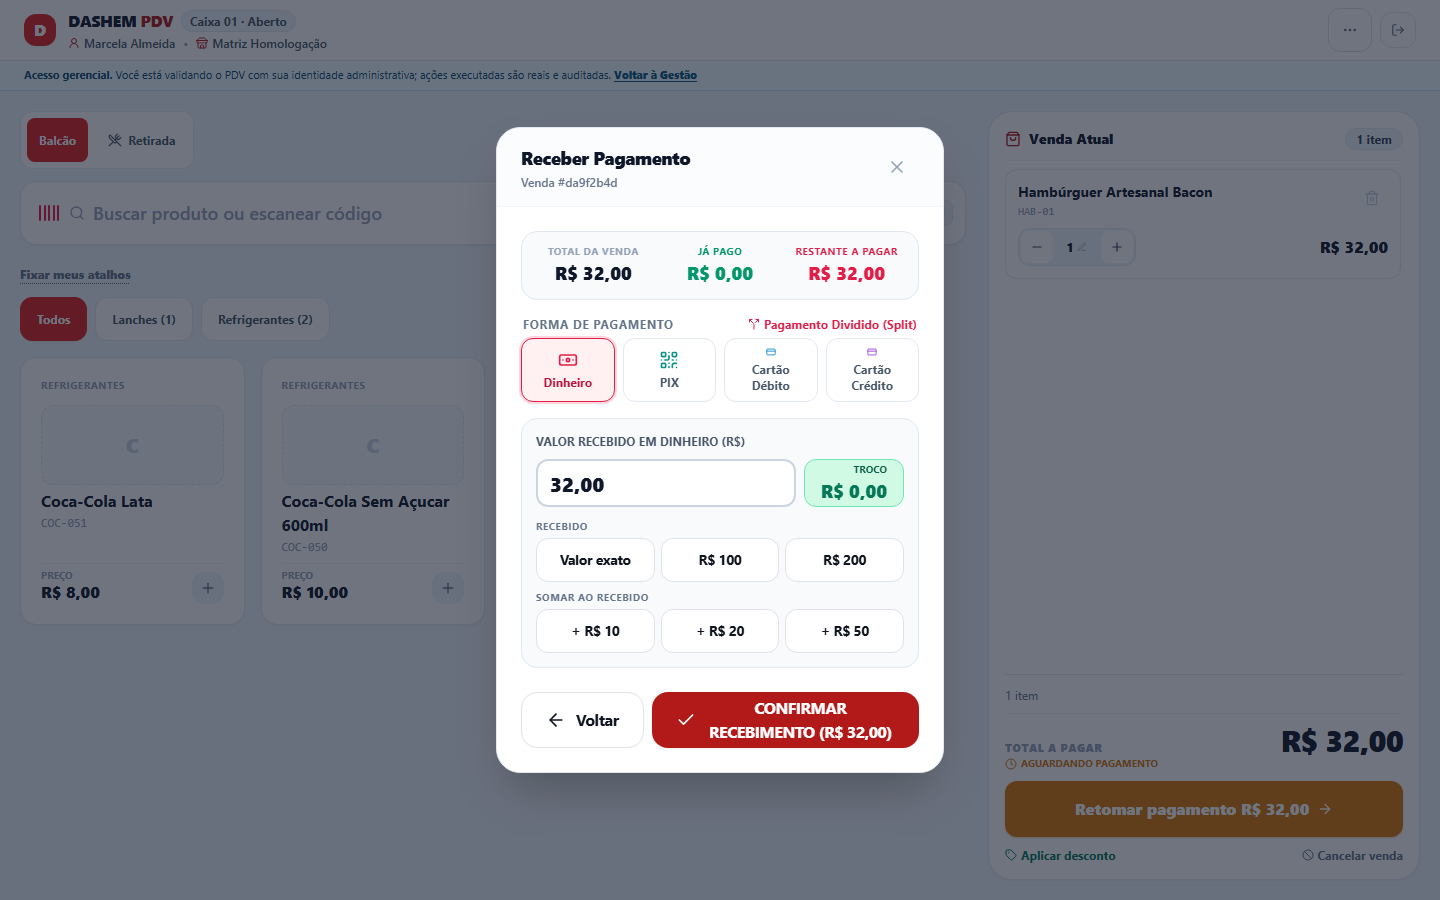
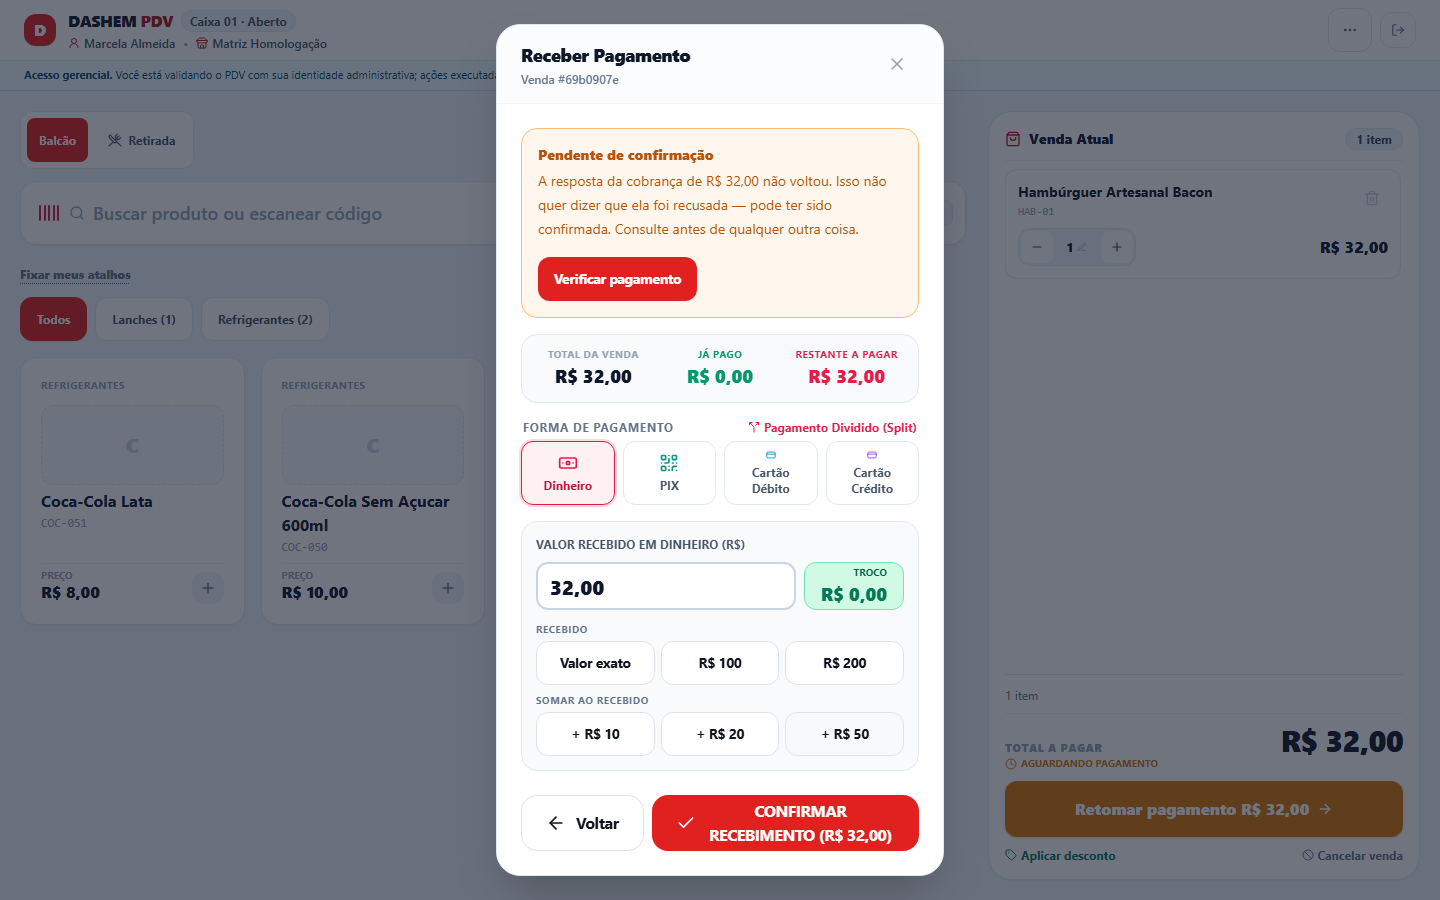
feat: timeout não é recusa — a pendência fica visível e a ação é consultar
Direção do dono em 08/09/2026: consultar primeiro; timeout não significa recusa;
reenvio só com idempotência garantida; cancelamento só depois de confirmação
efetiva. E verificar as capacidades reais da integração antes de implementar.

A auditoria veio antes do desenho e mudou o desenho. O provedor em uso é o
manual do operador: não há adquirente externo para interrogar. Existe reconcile
de execução TEF, mas o PDV não usa esse caminho, e não há rota GET para ler o
estado de uma execução. O que existe de autoritativo e consultável é o registro
do próprio Dashem — e ele basta para separar os três casos que decidem a conduta
do operador: já confirmada, existe e aguarda, ou nunca existiu.

Quando a resposta não volta, a tela deixa de dizer erro. Diz "Pendente de
confirmação", explica que isso não quer dizer recusa, e oferece Verificar
pagamento como ação principal. Consultar nunca cobra, e um teste estático
verifica que a função de consulta não chama createPayment nem confirmPayment.
Nenhuma cobrança nova nem cancelamento é oferecido enquanto a pendência não se
resolve.

A função de leitura que já existia devolvia lista vazia quando a chamada não
dava certo. Aceitável ao montar a tela, perigoso numa consulta: "não consegui
perguntar" ficaria indistinguível de "nada foi cobrado". A consulta usa uma
versão que falha alto.

A prova usa o timeout de verdade: a requisição de confirmação chega ao servidor
e a resposta é descartada. A tela mostra a pendência, a consulta apura que a
[…]

Changed region(s): [[0.3438, 0.0, 0.6562, 0.9956]]

diff --git a/frontend/src/context/PosContext.tsx b/frontend/src/context/PosContext.tsx
@@ -5,6 +5,17 @@ import { paymentProgress, requireAuthenticatedActor, saleNeedsCreation } from '.
 import { resolveNicheTheme, useNicheTheme } from '../utils/nicheTheme'
 import { formatCurrency } from '../utils/format'
 
+/** Uma cobrança cujo resultado não voltou, e o que a consulta já apurou. */
+export interface PagamentoPendente {
+  saleId: string
+  amount: number
+  method: api.Payment['method']
+  /** `DESCONHECIDO` até consultar; depois, o que o servidor respondeu. */
+  situacao: 'DESCONHECIDO' | 'CONFIRMADO' | 'AGUARDANDO' | 'NAO_ENCONTRADO' | 'CONSULTA_INDISPONIVEL'
+  detalhe: string
+  consultando: boolean
+}
+
 export interface ToastInfo {
   /**
    * `warning` existe porque "aceito, e está no fim" não é sucesso nem erro:
@@ -84,6 +95,17 @@ interface PosContextType {
   closeCancelModal: () => void
   closeFiscalModal: () => void
   processPayment: (method: api.Payment['method'], amount: number, tenderedAmount?: number, idempotencyKey?: string) => Promise<boolean>
+  /**
+   * O que ficou sem resposta.
+   *
+   * Quando a confirmação não volta, o pagamento **pode** ter sido criado e até
+   * confirmado no servidor: timeout não é recusa. Enquanto não se consultar, o
+   * estado é desconhecido — e a tela precisa dizer isso em vez de anunciar
+   * erro, que empurraria o operador a cobrar de novo.
+   */
+  pagamentoPendente: PagamentoPendente | null
+  /** Pergunta ao servidor o que existe para esta venda. Nunca cobra. */
+  verificarPagamento: () => Promise<void>
   issueFiscal: (simulateStatus?: string) => Promise<void>
   retryFiscal: () => Promise<void>
   openCash: (openingBalance: number) => Promise<void>
@@ -140,6 +162,7 @@ export const PosProvider: React.FC<{
   const [salesHistory, setSalesHistory] = useState<api.Sale[]>([])
   const [currentSale, setCurrentSale] = useState<api.Sale | null>(null)
   const [confirmedPayments, setConfirmedPayments] = useState<api.Payment[]>([])
+  const [pagamentoPendente, setPagamentoPendente] = useState<PagamentoPendente | null>(null)
   const [fiscalDoc, setFiscalDoc] = useState<api.FiscalDocument | null>(null)
 
   const [isPaymentModalOpen, setIsPaymentModalOpen] = useState(false)
@@ -640,6 +663,9 @@ export const PosProvider: React.FC<{
     if (!currentSale) return false
     try {
       setActionLoading(true)
+      // Uma tentativa nova começa sem a pendência da anterior na tela; se esta
+      // também não voltar, ela é registrada de novo, com o estado desta.
+      setPagamentoPendente(null)
       const hdrs = getHeaders()
 
       const pay = await api.createPayment(
@@ -678,10 +704,69 @@ export const PosProvider: React.FC<{
       }
     } catch (err: unknown) {
       const msg = err instanceof Error ? err.message : 'Erro ao processar pagamento'
-      showToast('error', msg)
+      // Timeout não é recusa. A cobrança pode ter sido criada — e até
+      // confirmada — do outro lado, e anunciar "erro" empurraria o operador a
+      // cobrar de novo. O estado fica pendente e visível até alguém perguntar
+      // ao servidor o que existe.
+      setPagamentoPendente({
+        saleId: currentSale.id, amount, method,
+        situacao: 'DESCONHECIDO', detalhe: msg, consultando: false,
+      })
       return false
     } finally {
       setActionLoading(false)
+    }
+  }
+
+  /**
+   * Consulta o que existe para esta venda. **Nunca cobra.**
+   *
+   * A integração de pagamento hoje é o provedor manual do operador: não há
+   * adquirente externo para interrogar, e o que existe de autoritativo é o
+   * registro do próprio Dashem. É ele que a consulta lê — e é o suficiente
+   * para distinguir os três casos que importam: já foi confirmado, existe e
+   * aguarda, ou não chegou a existir.
+   */
+  const verificarPagamento = async () => {
+    if (!pagamentoPendente) return
+    setPagamentoPendente((atual) => (atual ? { ...atual, consultando: true } : atual))
+    try {
+      const pagamentos = await api.consultarPagamentosDaVenda(getHeaders(), pagamentoPendente.saleId)
+      const confirmados = pagamentos.filter((item) => item.status === 'CONFIRMED')
+      const aguardando = pagamentos.filter((item) => item.status === 'PENDING')
+      if (confirmados.length) {
+        const total = confirmados.reduce((soma, item) => soma + Number(item.amount), 0)
+        setConfirmedPayments(confirmados)
+        const { remaining } = paymentProgress(currentSale?.net_total ?? 0, confirmados.map((p) => p.amount))
+        setPagamentoPendente({
+          ...pagamentoPendente, consultando: false, situacao: 'CONFIRMADO',
+          detalhe: remaining <= 0.001
+            ? `A cobrança tinha sido confirmada: ${formatCurrency(total)} recebidos. Nada a refazer.`
+            : `Já confirmados ${formatCurrency(total)}. Restam ${formatCurrency(remaining)}.`,
+        })
+        if (remaining <= 0.001) setCurrentSale((prev) => (prev ? { ...prev, status: 'PAID' } : null))
+        return
+      }
+      if (aguardando.length) {
+        setPagamentoPendente({
+          ...pagamentoPendente, consultando: false, situacao: 'AGUARDANDO',
+          detalhe: 'A cobrança existe no servidor e ainda não foi confirmada. Consulte de novo em instantes; não cobre outra vez.',
+        })
+        return
+      }
+      setPagamentoPendente({
+        ...pagamentoPendente, consultando: false, situacao: 'NAO_ENCONTRADO',
+        detalhe: 'Nenhuma cobrança foi registrada para esta venda. É seguro tentar novamente.',
+      })
+    } catch (erro) {
+      // Não conseguir perguntar não é o mesmo que não haver cobrança, e a tela
+      // não pode deixar as duas parecerem iguais.
+      setPagamentoPendente({
+        ...pagamentoPendente, consultando: false, situacao: 'CONSULTA_INDISPONIVEL',
+        detalhe: erro instanceof Error
+          ? `Não foi possível consultar: ${erro.message} Leve esta venda para conferência antes de cobrar de novo.`
+          : 'Não foi possível consultar. Leve esta venda para conferência antes de cobrar de novo.',
+      })
     }
   }
 
@@ -914,6 +999,8 @@ export const PosProvider: React.FC<{
         closeCancelModal,
         closeFiscalModal,
         processPayment,
+        pagamentoPendente,
+        verificarPagamento,
         issueFiscal,
         retryFiscal,
         openCash,

diff --git a/frontend/src/components/pos/PaymentDialog.tsx b/frontend/src/components/pos/PaymentDialog.tsx
@@ -14,7 +14,9 @@ export const PaymentDialog: React.FC = () => {
     currentSale,
     confirmedPayments,
     processPayment,
-    actionLoading
+    actionLoading,
+    pagamentoPendente,
+    verificarPagamento,
   } = usePos()
 
   const [method, setMethod] = useState<Payment['method']>('CASH')
@@ -97,6 +99,54 @@ export const PaymentDialog: React.FC = () => {
       maxWidth="md"
     >
       <div className="flex flex-col space-y-4">
+        {/*
+          A pendência vem antes de tudo, e enquanto ela existe a tela não
+          oferece cobrar de novo. Timeout não é recusa: a cobrança pode ter sido
+          confirmada do outro lado, e a única ação segura é perguntar.
+        */}
+        {pagamentoPendente && (
+          <section
+            role="alert"
+            className={`rounded-2xl border p-4 ${pagamentoPendente.situacao === 'CONFIRMADO'
+              ? 'border-state-success-border bg-state-success-soft'
+              : 'border-state-warning-border bg-state-warning-soft'}`}
+          >
+            {/*
+              O título segue o estado. Depois de a consulta apurar que a
+              cobrança existia, manter "Pendente de confirmação" faria o
+              cabeçalho contradizer o próprio texto abaixo dele.
+            */}
+            <p className={`text-sm font-black ${pagamentoPendente.situacao === 'CONFIRMADO' ? 'text-state-success' : 'text-state-warning'}`}>
+              {{
+                DESCONHECIDO: 'Pendente de confirmação',
+                CONFIRMADO: 'Cobrança confirmada',
+                AGUARDANDO: 'Cobrança registrada, ainda sem confirmação',
+                NAO_ENCONTRADO: 'Nenhuma cobrança foi registrada',
+                CONSULTA_INDISPONIVEL: 'Não foi possível consultar',
+              }[pagamentoPendente.situacao]}
+            </p>
+            <p className={`mt-1 text-sm leading-6 ${pagamentoPendente.situacao === 'CONFIRMADO' ? 'text-state-success' : 'text-state-warning'}`}>
+              {pagamentoPendente.situacao === 'DESCONHECIDO'
+                ? `A resposta da cobrança de ${formatCurrency(pagamentoPendente.amount)} não voltou. Isso não quer dizer que ela foi recusada — pode ter sido confirmada. Consulte antes de qualquer outra coisa.`
+                : pagamentoPendente.detalhe}
+            </p>
+            <div className="mt-4 flex flex-wrap gap-2">
+              <Button onClick={verificarPagamento} loading={pagamentoPendente.consultando}>
+                {pagamentoPendente.situacao === 'DESCONHECIDO' ? 'Verificar pagamento' : 'Verificar de novo'}
+              </Button>
+              {pagamentoPendente.situacao === 'CONFIRMADO' && (
+                <Button variant="secondary" onClick={closePaymentModal}>Fechar</Button>
+              )}
+            </div>
+            {(pagamentoPendente.situacao === 'AGUARDANDO' || pagamentoPendente.situacao === 'CONSULTA_INDISPONIVEL') && (
+              <p className="mt-3 text-xs font-bold text-state-warning">
+                Não cobre de novo enquanto isto não se resolver. Se precisar seguir com o cliente,
+                registre a venda para conferência e trate esta cobrança depois.
+              </p>
+            )}
+          </section>
+        )}
+
         {/* Financial Summary Card */}
         <div className="grid grid-cols-1 min-[400px]:grid-cols-3 gap-2 p-3 bg-slate-50 rounded-2xl border border-slate-200 text-center select-none">
           <div>

diff --git a/frontend/tests/inventory_movement_ui.test.ts b/frontend/tests/inventory_movement_ui.test.ts
@@ -115,3 +115,27 @@ test('a cobrança viaja carimbada, e o carimbo é da intenção', () => {
   assert.match(dialogo, /processPayment\(method, activeAmountToPay, tend, intencaoRef\.current\.chave\)/)
   assert.doesNotMatch(dialogo, /useEffect\([^)]*setIntencao/)
 })
+
+test('timeout não é recusa, e a ação principal é consultar', () => {
+  const dialogo = readFileSync(join(root, 'components', 'pos', 'PaymentDialog.tsx'), 'utf8')
+  const api = readFileSync(join(root, 'services', 'api.ts'), 'utf8')
+
+  // Quando a resposta não volta, a cobrança pode ter sido confirmada do outro
+  // lado. Anunciar erro empurraria o operador a cobrar de novo do que já foi
+  // cobrado — que é a segunda cobrança por ambiguidade que o aceite proíbe.
+  assert.match(context, /setPagamentoPendente\(\{[\s\S]{0,200}?situacao: 'DESCONHECIDO'/)
+  assert.match(dialogo, /Pendente de confirmação/)
+  assert.match(dialogo, /Verificar pagamento/)
+  assert.match(dialogo, /não quer dizer que ela foi recusada/)
+
+  // Consultar nunca cobra: ela só lê o que existe.
+  assert.match(context, /const verificarPagamento = async \(\) => \{/)
+  const consulta = context.slice(context.indexOf('const verificarPagamento'), context.indexOf('const issueFiscal'))
+  assert.doesNotMatch(consulta, /createPayment|confirmPayment/)
+
+  // E a consulta falha alto: devolver lista vazia faria "não consegui
+  // perguntar" ficar indistinguível de "nada foi cobrado".
+  assert.match(api, /export async function consultarPagamentosDaVenda/)
+  const leitura = api.slice(api.indexOf('export async function consultarPagamentosDaVenda'))
+  assert.match(leitura.slice(0, 600), /throw await apiError/)
+})

diff --git a/frontend/src/services/api.ts b/frontend/src/services/api.ts
@@ -4132,6 +4132,23 @@ export async function fetchSalePayments(headers: Record<string, string>, saleId:
   return res.json()
 }
 
+/**
+ * Os pagamentos desta venda, para **consultar** o que já aconteceu.
+ *
+ * Diferente de `fetchSalePayments`, esta versão **falha alto**. A outra devolve
+ * lista vazia quando a chamada não dá certo, o que é aceitável ao montar a tela
+ * e é perigoso numa consulta: "não consegui perguntar" ficaria indistinguível
+ * de "nada foi cobrado", que é exatamente a ambiguidade que não pode existir
+ * quando alguém está decidindo se cobra de novo.
+ */
+export async function consultarPagamentosDaVenda(
+  headers: Record<string, string>, saleId: string,
+): Promise<Payment[]> {
+  const res = await fetch(`${API_BASE_URL}/api/v1/payments?sale_id=${saleId}`, { headers })
+  if (!res.ok) throw await apiError(res, 'Não foi possível consultar os pagamentos desta venda.')
+  return res.json()
+}
+
 export async function createPayment(
   headers: Record<string, string>,
   saleId: string,

diff --git a/docs/quality/ux-07-pagamento-2026-09-08.md b/docs/quality/ux-07-pagamento-2026-09-08.md
@@ -60,15 +60,19 @@ funciona, resposta vazia".
 
 ## O que a medida devolve
 
-`frontend/e2e/presentation/ux07_pagamento.cjs` monta uma venda, **aborta a
-confirmação na rede** — o timeout depois do envio, forçado — e reenvia.
-Evidência em [`evidence/ux-07/`](evidence/ux-07/).
+`frontend/e2e/presentation/ux07_pagamento.cjs` monta uma venda e força o
+timeout. Evidência em [`evidence/ux-07/`](evidence/ux-07/).
 
 | Medida | Resultado |
 |---|---|
-| Carimbo na criação | `46e846fe…` nas duas tentativas — o mesmo |
-| Carimbo na confirmação | `46e846fe…-confirm` nas duas — derivado da mesma intenção |
-| O que ficou no banco | **1 pagamento, R$ 32,00 confirmados, venda `COMPLETED`** |
+| Carimbo na criação | um só, e é o mesmo em qualquer tentativa da mesma intenção |
+| Carimbo na confirmação | derivado dele, com sufixo `-confirm` |
+| O que ficou no banco | **1 pagamento, R$ 32,00 confirmados, venda paga** |
+
+O roteiro **deixou de reenviar** depois que a conduta mudou: consultar
+substituiu cobrar de novo. O carimbo continua sendo a rede de segurança de quem
+insistir, e o teste HTTP no backend continua provando que a mesma intenção
+reenviada não abre um segundo pagamento.
 
 E quatro provas HTTP no backend: a mesma intenção reenviada não abre um segundo
 pagamento; sem chave, o reenvio abre dois — que é por que a chave existe do lado
@@ -83,25 +87,83 @@ soma bate com o total; confirmar duas vezes continua confirmando uma.
   medição** antes de eu perceber o problema — o roteiro mostrou dois carimbos
   distintos entre a tentativa e o reenvio.
 
+## A pendência ficou visível, e a ação é consultar
+
+*Direção do dono em 08/09/2026: consultar primeiro; timeout não significa
+recusa; reenvio só com idempotência garantida; cancelamento só depois de
+confirmação efetiva.*
+
+**A auditoria da integração veio antes do desenho**, e mudou o desenho. O que a
+integração de pagamento sabe fazer hoje:
+
+| Capacidade | Existe? |
+|---|---|
+| Consultar o pagamento registrado no Dashem (`GET /payments?sale_id=`) | **sim** |
+| Interrogar um adquirente externo sobre a transação | **não** — o provedor em uso é `ManualOperatorPaymentProvider`, sem contraparte externa |
+| Reconciliar uma execução TEF (`POST /providers/transactions/{id}/reconcile`) | sim, mas o PDV não usa esse caminho |
+| Ler o estado de uma execução por `GET` | **não existe rota** |
+
+Então "consultar a transação existente" é, hoje, consultar **o registro
+autoritativo do próprio Dashem** — e isso basta para separar os três casos que
+decidem a conduta do operador: já confirmada, existe e aguarda, ou nunca
+existiu.
+
+Quando a resposta não volta, a tela deixa de dizer "erro" e passa a dizer:
+
+> **Pendente de confirmação** — A resposta da cobrança de R$ 32,00 não voltou.
+> Isso **não quer dizer que ela foi recusada** — pode ter sido confirmada.
+> Consulte antes de qualquer outra coisa.  → **Verificar pagamento**
+
+E a consulta resolve, com o título acompanhando o estado apurado:
+
+| O que a consulta apura | O que a tela passa a dizer |
+|---|---|
+| Pagamento confirmado | **Cobrança confirmada** — "tinha sido confirmada: R$ 32,00 recebidos. Nada a refazer." |
+| Pagamento pendente | **Cobrança registrada, ainda sem confirmação** — consulte de novo; não cobre outra vez |
+| Nenhum pagamento | **Nenhuma cobrança foi registrada** — é seguro tentar novamente |
+| Consulta indisponível | **Não foi possível consultar** — leve para conferência antes de cobrar de novo |
+
+Três decisões que sustentam isso:
+
+- **`consultarPagamentosDaVenda` falha alto.** A função que já existia devolvia
+  lista vazia quando a chamada não dava certo — aceitável ao montar a tela, e
+  perigoso numa consulta: "não consegui perguntar" ficaria indistinguível de
+  "nada foi cobrado".
+- **Consultar nunca cobra.** Um teste estático verifica que a função de consulta
+  não chama `createPayment` nem `confirmPayment`.
+- **Nenhuma nova cobrança nem cancelamento é oferecido** enquanto a pendência
+  não se resolve. Cancelar só se anunciaria depois de confirmação efetiva, e a
+  integração não dá essa confirmação hoje.
+
+### A prova, com o timeout de verdade
+
+O roteiro deixa a requisição de confirmação **chegar ao servidor** e descarta a
+resposta — que é o timeout que importa, não o que nunca saiu. Resultado:
+
+| Medida | Resultado |
+|---|---|
+| A tela mostra pendência, não erro | "Pendente de confirmação… não quer dizer que ela foi recusada" |
+| A consulta resolve | "Cobrança confirmada… R$ 32,00 recebidos. Nada a refazer." |
+| O que ficou no banco | **1 pagamento, R$ 32,00 confirmados, venda `PAID`** |
+
+Controle: removida a pendência, o roteiro reprova por não achar "Verificar
+pagamento". E o olho pegou o que a medida não perguntava — o título continuava
+"Pendente de confirmação" depois de a consulta resolver, contradizendo o texto
+abaixo dele. Agora o título acompanha o estado, e a medida exige isso.
+
 ## Portões executados
 
 | Portão | Resultado |
 |---|---|
-| `ux07_pagamento.cjs` | 3 medidas, 4 telas, 0 falhas, com o timeout forçado |
+| `ux07_pagamento.cjs` | 5 medidas, 4 telas, 0 falhas, com o timeout de verdade |
 | `ux05_modulos.cjs` | 8 auditados, 0 achados |
-| `npm test` | 195 passando, 0 falhas |
+| `npm test` | 198 passando, 0 falhas |
 | `npm run build` | limpo |
-| `pytest` do backend | suíte completa, com os dois servidores no ar |
+| `pytest` do backend | 543 passando, com os dois servidores no ar |
 
-## O que fica nomeado, não entregue
+## O que continua fora
 
-O enunciado também pede distinguir na tela **recusado, em processamento,
-confirmado e pendente de confirmação**. Hoje a tela distingue confirmado de
-falha, e o "pendente de confirmação" — o pagamento criado cuja confirmação não
-voltou — existe no banco e **não tem representação visual**: quem reenvia hoje
-acerta por causa do carimbo, não porque a tela lhe explicou o estado.
-
-Essa é a metade não entregue da UX-07, e ela precisa de decisão de produto sobre
-o que oferecer nesse estado (reenviar, consultar o provedor, cancelar). Fica
-registrada aqui em vez de ser declarada pronta. O que esta sprint fechou foi o
-buraco por onde saía a segunda cobrança.
+O estado **em processamento** — a cobrança em curso num terminal TEF — não tem
+representação, porque o PDV não usa o caminho de execução de provedor. Quando
+usar, ele terá de distinguir esse quarto estado, e aí a rota de consulta por
+`GET` de execução, que hoje não existe, passa a fazer falta.

diff --git a/docs/product/ui-ux-implementation-sprints.md b/docs/product/ui-ux-implementation-sprints.md
@@ -1,6 +1,6 @@
 # Gestão e PDV — sprints de implementação da experiência
 
-Status: UX-00 a UX-08 executadas em 08/09/2026 — a fundação gerencial inteira, do inventário à homologação integrada. UX-07 ficou **parcial** e UX-09 a UX-13 seguem planejadas; UX-11 e UX-12 dependem de definição do dono.
+Status: UX-00 a UX-08 executadas em 08/09/2026. **Não é "fundação fechada"**: há entregas publicadas e verdes, e continuam abertas as lacunas de homologação nomeadas na [UX-08](../quality/ux-08-homologacao-2026-09-08.md) — dois destinos nunca percorridos, catálogo volumoso não exercitado, concorrência de duas estações não validada pela tela. UX-09 a UX-13 planejadas; UX-11 aguarda exemplos de cálculo aprovados pelo dono.
 Origem: direção explícita do usuário nesta conversa, em 07/09/2026.
 Plano visual: [evolução de UI/UX](ui-ux-evolution-plan.md).
 Referências de arquitetura para execução: [ADR-034 — hierarquia da interface e redução do esforço do operador](../architecture/adr-034-interface-hierarchy.md) e [ADR-032 — disponibilidade prometida e compromisso de estoque](../architecture/adr-032-available-to-promise.md).
@@ -170,7 +170,7 @@ Uma linha por sprint, com status, commit, evidência e pendência.
 | UX-04 | **executada** em 08/09/2026; faixa de atenção vira filtro, movimentações em visão própria, movimentação carimbada por intenção | [entrega](../quality/ux-04-estoque-2026-09-08.md) · [capturas](../quality/evidence/ux-04/) · roteiro `frontend/e2e/presentation/ux04_estoque.cjs` | Duas estações movimentando a mesma mercadoria ao mesmo tempo não foi percorrido; 3.2–3.4 do plano de estoque seguem futuras |
 | UX-05 | **executada** em 08/09/2026; oito módulos auditados antes de mexer, títulos e cores consolidados, guarda estático estendido | [entrega](../quality/ux-05-modulos-2026-09-08.md) · [capturas](../quality/evidence/ux-05/) · roteiro `frontend/e2e/presentation/ux05_modulos.cjs` | Ambientes e Mesas e Provedores de pagamento **não** foram auditados: exigem `FOOD_SERVICE` e `tef`, que o acervo de homologação não contrata. As jornadas de estado real ficam para a UX-08 |
 | UX-06 | **executada** em 08/09/2026; escada de avisos antes da inclusão, catálogo relido após reservar, tom de atenção no aviso | [entrega](../quality/ux-06-pdv-2026-09-08.md) · [capturas](../quality/evidence/ux-06/) · roteiro `frontend/e2e/presentation/ux06_pdv.cjs` | Catálogo volumoso não foi exercitado: o acervo de homologação tem seis produtos |
-| UX-07 | **parcial** em 08/09/2026; criação de pagamento idempotente e carimbo por intenção nos dois passos | [entrega](../quality/ux-07-pagamento-2026-09-08.md) · [capturas](../quality/evidence/ux-07/) · roteiro `frontend/e2e/presentation/ux07_pagamento.cjs` | **Não entregue**: distinguir na tela recusado / em processamento / confirmado / pendente de confirmação. O estado pendente existe no banco e não tem representação visual — precisa de decisão de produto sobre o que oferecer nele |
+| UX-07 | **executada** em 08/09/2026; criação de pagamento idempotente, carimbo por intenção, e a pendência visível com consulta como ação principal | [entrega](../quality/ux-07-pagamento-2026-09-08.md) · [capturas](../quality/evidence/ux-07/) · roteiro `frontend/e2e/presentation/ux07_pagamento.cjs` | Falta o estado **em processamento**, que só existe no caminho de execução TEF — o PDV não o usa. Quando usar, faltará também uma rota de consulta por `GET` de execução |
 | UX-08 | **executada** em 08/09/2026; volta Gestão → operação → conferência, quatro tamanhos, acessibilidade, checklist e retorno | [entrega](../quality/ux-08-homologacao-2026-09-08.md) · [capturas](../quality/evidence/ux-08/) · roteiro `frontend/e2e/presentation/ux08_homologacao.cjs` | **Não declara a trilha homologada.** Riscos abertos listados na entrega: estado pendente sem tela, dois destinos nunca percorridos, catálogo volumoso, concorrência de duas estações |
 | UX-09 a UX-13 | planejadas | — | UX-11 e UX-12 dependem de definição do dono; UX-13 já tem aceite escrito |
 
